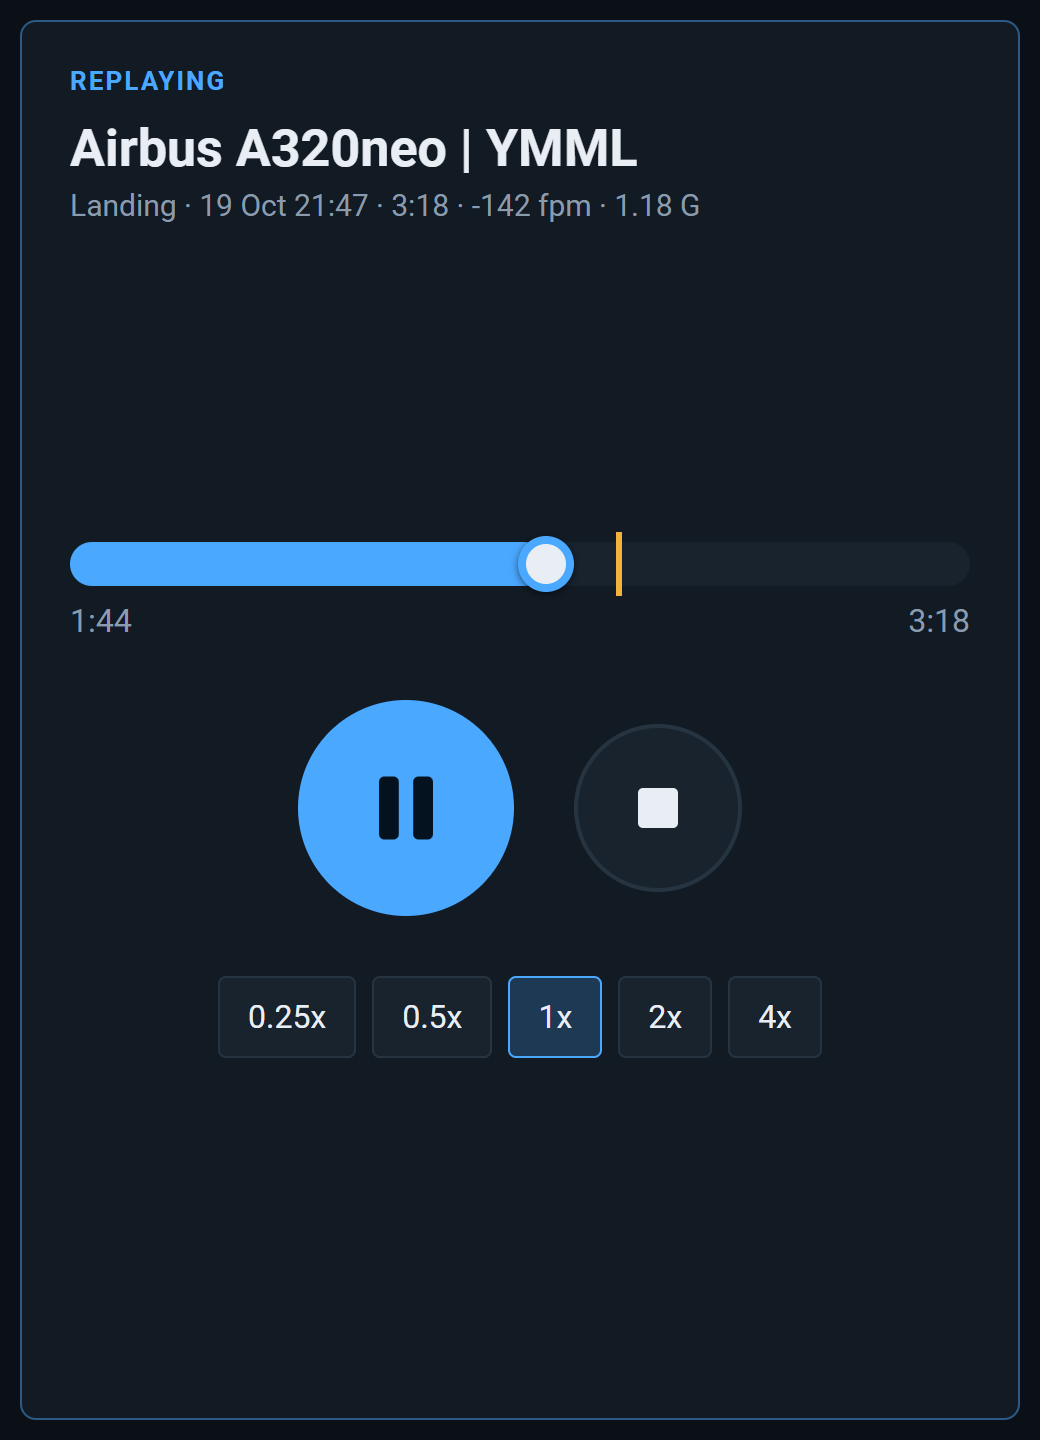
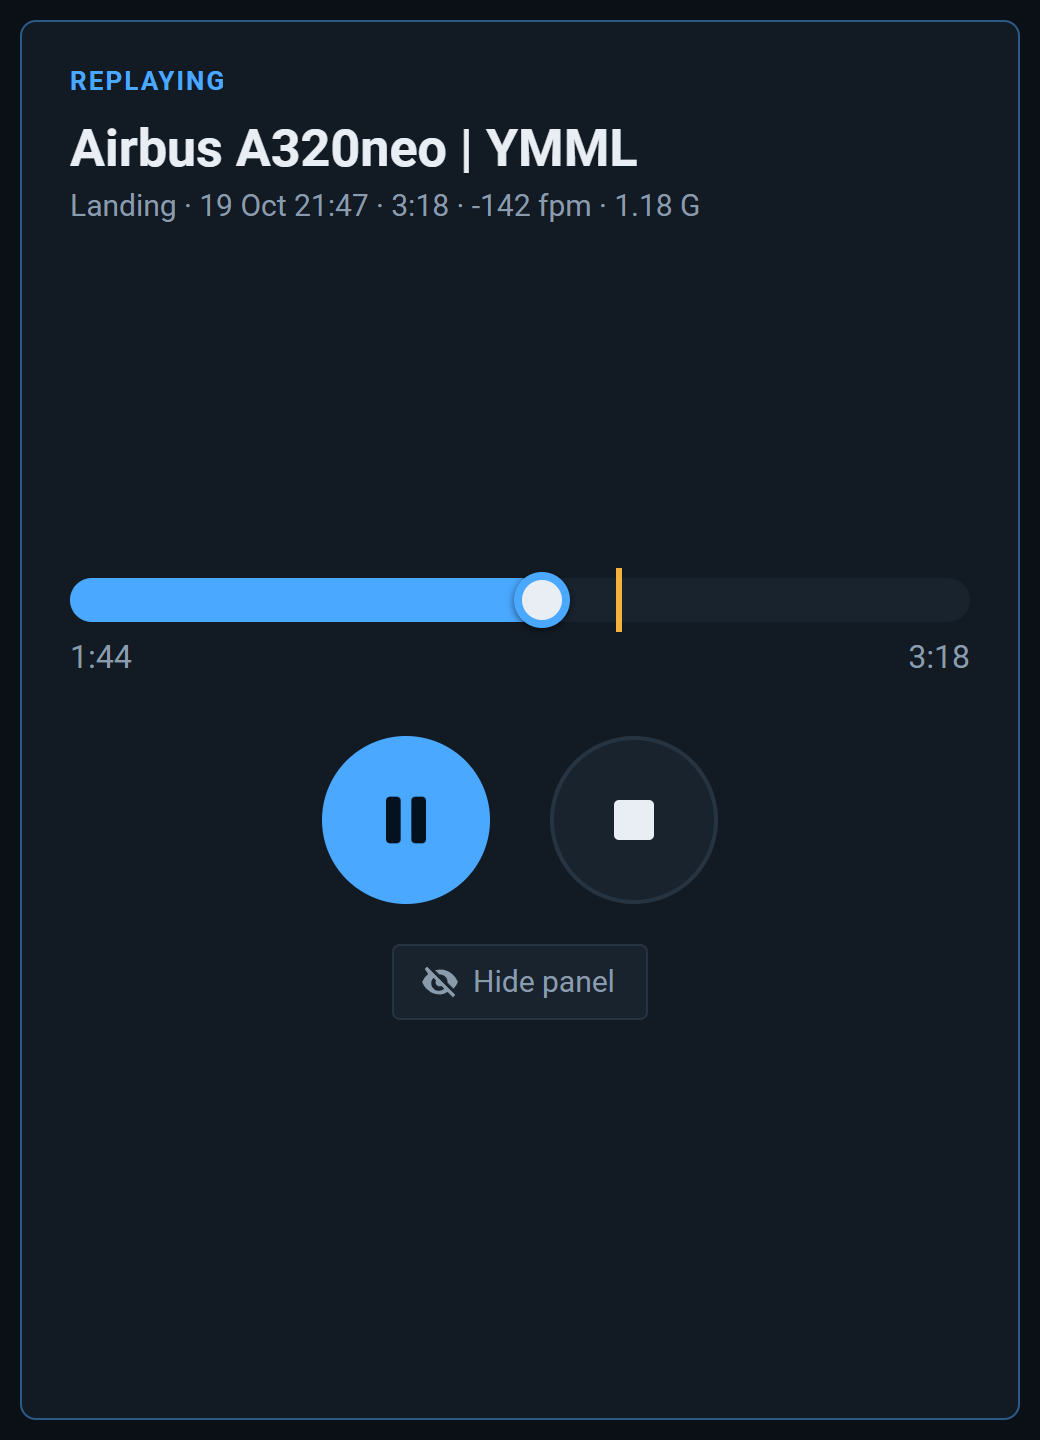
Player: label the button Hide panel; README: new player screenshot
The screenshot is the same YMML landing as before, captured from the
panel harness at 2x in Roboto, with the smaller play/pause button,
Hide panel, and no speed buttons.

diff --git a/src/panel/BetterReplayPanel.html b/src/panel/BetterReplayPanel.html
@@ -148,7 +148,7 @@
                  button opens the panel again on this screen -->
             <button type="button" class="br-btn br-hide" id="br-hide" title="Hide the panel. The replay keeps playing.">
               <svg viewBox="0 0 24 24"><path d="M2.8 4.2 4.2 2.8l17 17-1.4 1.4-3.2-3.2A10.6 10.6 0 0 1 12 19.5c-4.9 0-9-3.1-10.7-7.5a11.6 11.6 0 0 1 3.6-4.9zm5.3 5.3A4.5 4.5 0 0 0 14.5 16l-1.6-1.6A2.5 2.5 0 0 1 9.6 11zM12 4.5c4.9 0 9 3.1 10.7 7.5a11.7 11.7 0 0 1-2.6 4l-3.6-3.6a4.5 4.5 0 0 0-4.9-4.9L9 4.9a10.6 10.6 0 0 1 3-.4z" fill="currentColor"/></svg>
-              <span>Hide</span>
+              <span>Hide panel</span>
             </button>
           </div>
         </section>

diff --git a/MANUAL_TEST.md b/MANUAL_TEST.md
@@ -165,7 +165,7 @@ The same lines are written to `betterreplay.log` in the work folder: `%APPDATA%\
 - [ ] The aircraft jumps to the clip start and flies the recorded path smoothly. Note any jitter, drift or stutter.
 - [ ] The log has `playback: position, attitude and velocities set directly every frame (N of 60 frames off)` with N near 0, and `playback: the rotation rates follow the clip (written x0.305)` a few seconds in.
 - [ ] The engine sound stays steady at speed, in the cabin near the engines too: no flutter, and no squeaks when the sim stutters for a frame. If you hear one, note roughly when in the clip, and replay it with the trace on (`kPlaybackTrace`): its `wall_dt_ms` and `step_ms` columns show the frame times and the step the replay took for each. On the A350, small pitch jitters in the fan's whine on FLX takeoffs from about 80 kt are a known open issue (see *A350 engine whine in replays* in [Known gaps](DEVELOPMENT.md#known-gaps)).
-- [ ] The panel switches to the player: the clip's name, a large seek bar with the amber touchdown mark at 2:00, round play/pause and stop buttons, and Hide.
+- [ ] The panel switches to the player: the clip's name, a large seek bar with the amber touchdown mark at 2:00, round play/pause and stop buttons, and Hide panel.
 - [ ] The PFD airspeed and vertical speed follow the clip (body velocities are written every frame), not the speed you had before pressing Play.
 - [ ] **Throttle** (clips recorded with throttle support): the thrust levers follow the clip.
   - Simvar mode: moving your hardware throttle has no effect while it plays. On Stop you'll see `playback: hardware throttle input released (N input event(s) were blocked)`.
@@ -196,7 +196,7 @@ The same lines are written to `betterreplay.log` in the work folder: `%APPDATA%\
   - **Autothrottle engaged in flight** (the PMDG 777, and a default aircraft with one): play a takeoff clip. **Expect** `playback: sent AUTO_THROTTLE_DISCONNECT (twice)` right after the jump to the runway and the A/T disengaging (it may engage itself while frozen in the air before the jump: that's left to the jump) (any disconnect warning cleared by the second press). If the A/T stays engaged, this aircraft ignores the sim's event: **note** that, and whether a key bound to *Autothrottle disconnect* in the sim's controls disengages it. Then expect *Spooling down the engines* reaching idle (`the engines are where the clip has them`, not `… have settled …, short of the clip (N1 106…)`), and the takeoff roll going from idle to takeoff thrust as in the clip. **Note** whether the A/T stayed off for the whole replay, and anything the A/T disconnect left on the EICAS.
   - **PMDG 777 flaps, after redoing the flaps step:** expect `control setup: … moved the flaps N s later than you did` and `replays drive the flaps N s ahead of the clip` (about 3 s), then in replays `playback: the flaps driven N s ahead of the clip`. **Note** whether the flaps now go up when they did in the flight.
 - [ ] **Pause/Play:** the aircraft holds position, then continues. At the end it pauses, and the big button shows the replay icon. Replay starts over with the gear and lights as they are at the clip's start.
-- [ ] **Hide:** the panel closes like its title bar's X, the toolbar button goes off, and the replay keeps playing. The toolbar button opens it again on the player, further into the clip.
+- [ ] **Hide panel:** the panel closes like its title bar's X, the toolbar button goes off, and the replay keeps playing. The toolbar button opens it again on the player, further into the clip.
 - [ ] **Stop. Expect:**
   ```
   playback: restored aircraft to lat … lon … alt … ft
